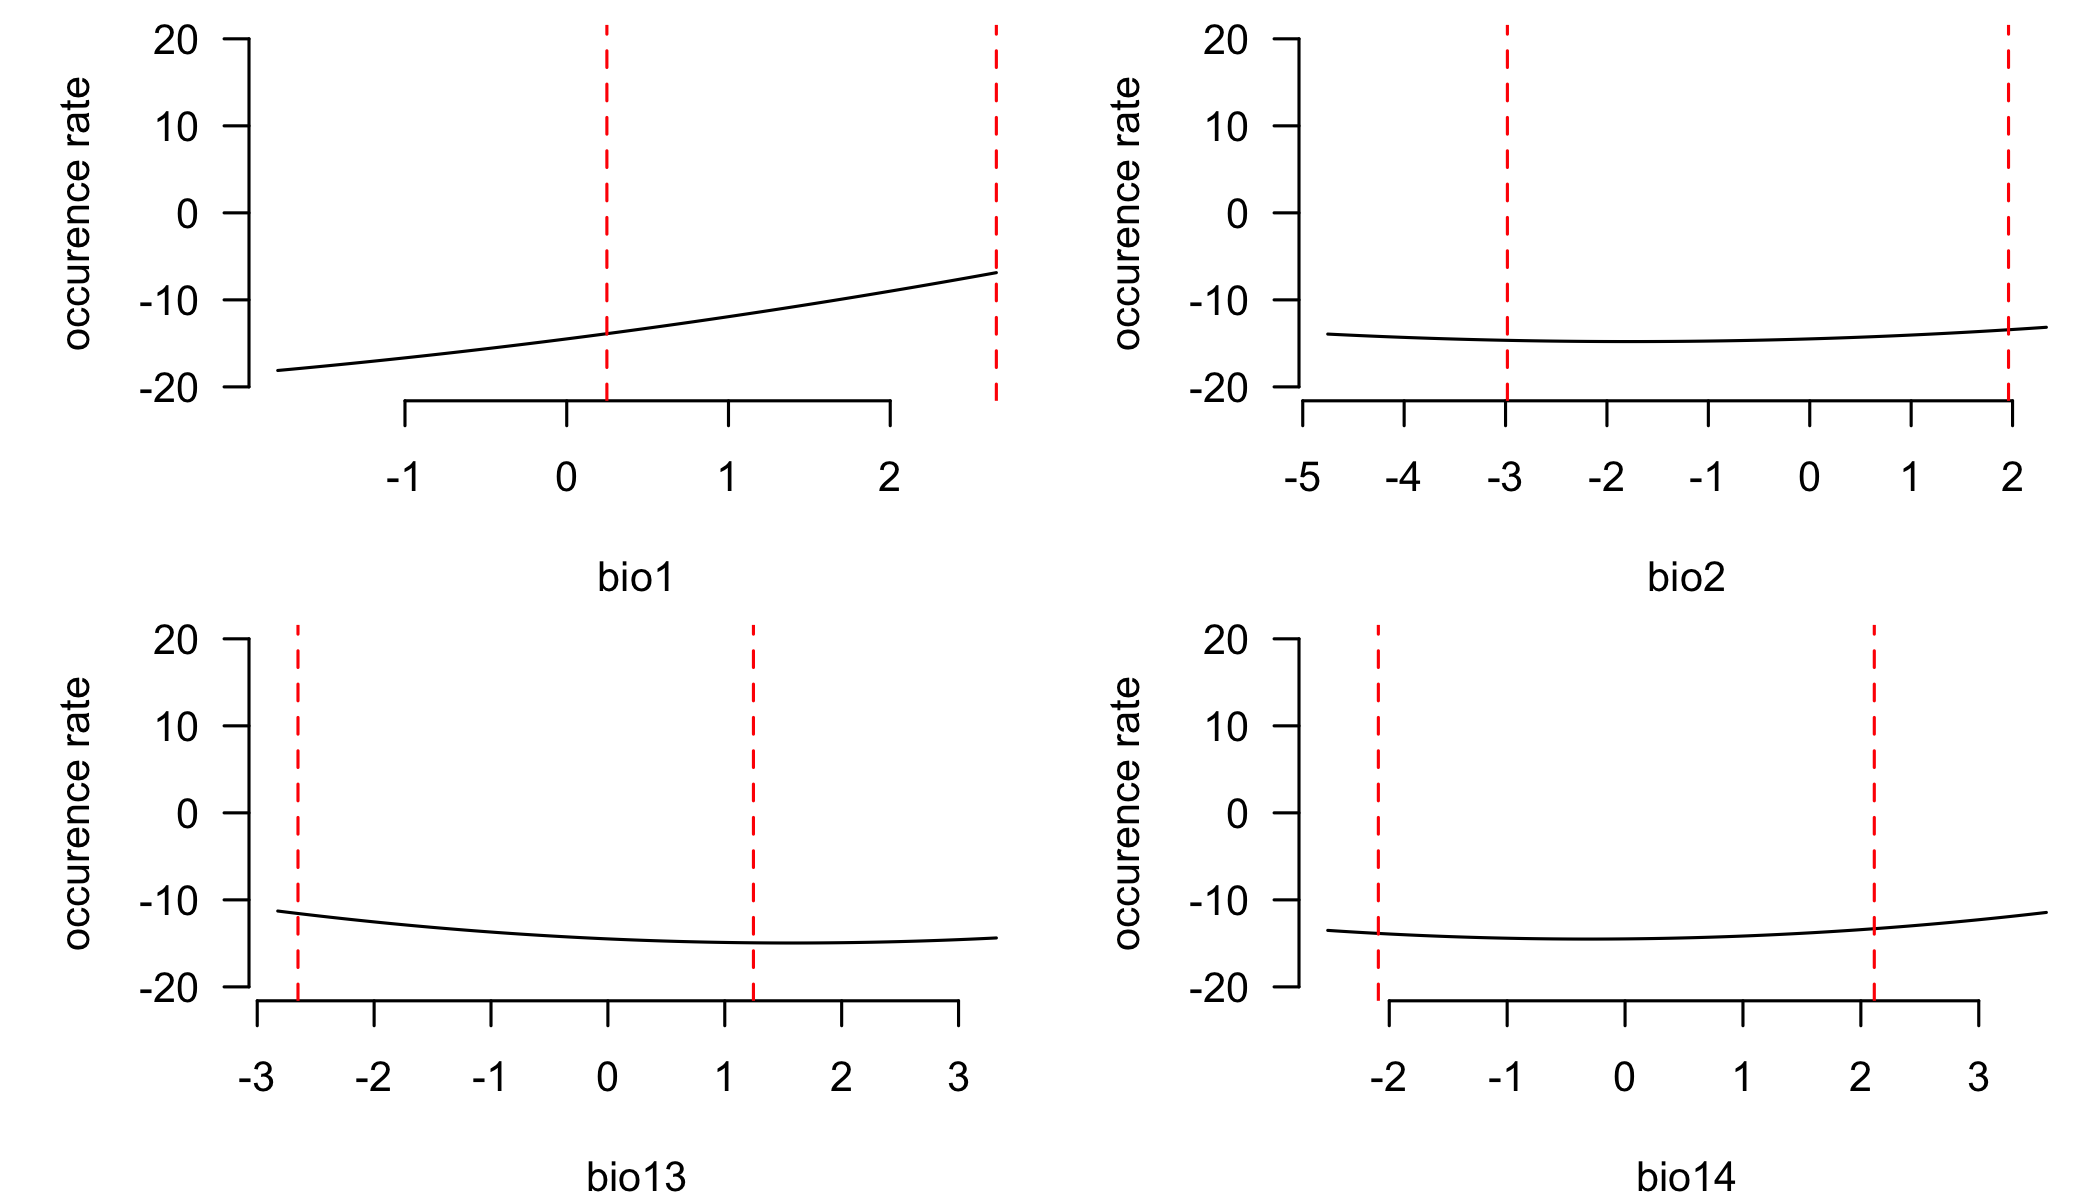
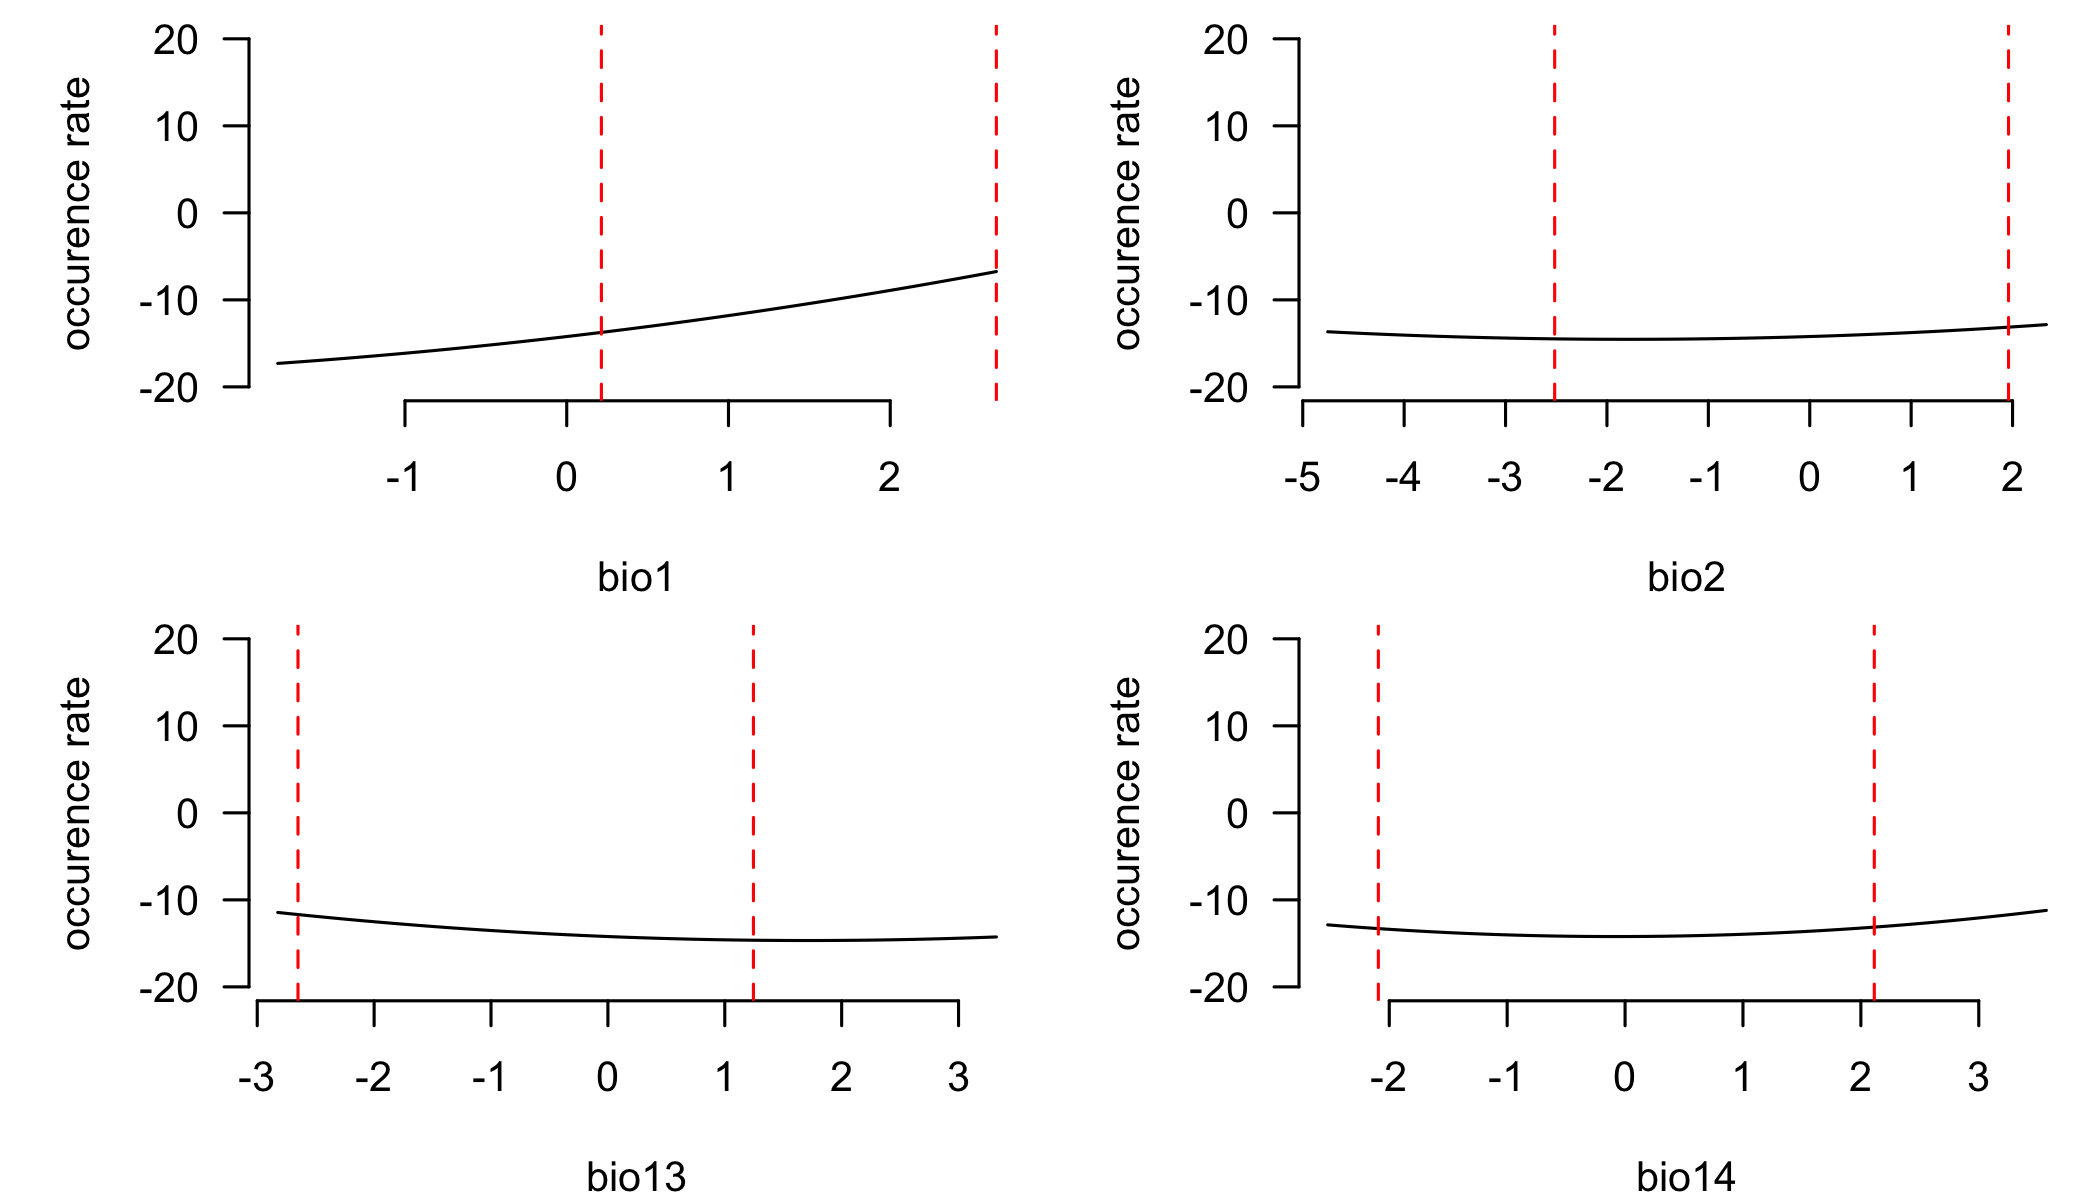
working site

diff --git a/111_SDM_Transfer.html b/111_SDM_Transfer.html
@@ -695,27 +695,27 @@ summary(mod.worst) # show coefficients</code></pre>
 ## 
 ## Deviance Residuals: 
 ##     Min       1Q   Median       3Q      Max  
-## -5.9215  -0.2497  -0.0725  -0.0195   5.0739  
+## -5.8954  -0.2600  -0.0861  -0.0287   5.0121  
 ## 
 ## Coefficients:
 ##              Estimate Std. Error z value Pr(&gt;|z|)    
-## (Intercept) -14.48566    0.25746 -56.264  &lt; 2e-16 ***
-## bio1          2.36738    0.28109   8.422  &lt; 2e-16 ***
-## bio2          0.34557    0.05220   6.620  3.6e-11 ***
-## bio13        -0.59795    0.06548  -9.132  &lt; 2e-16 ***
-## bio14         0.12487    0.10737   1.163 0.244821    
-## I(bio1^2)     0.18781    0.08635   2.175 0.029635 *  
-## I(bio2^2)     0.09721    0.02730   3.560 0.000370 ***
-## I(bio13^2)    0.18978    0.05284   3.592 0.000328 ***
-## I(bio14^2)    0.20319    0.05810   3.497 0.000471 ***
+## (Intercept) -14.21454    0.22871 -62.150  &lt; 2e-16 ***
+## bio1          2.16403    0.24805   8.724  &lt; 2e-16 ***
+## bio2          0.35567    0.05117   6.951 3.63e-12 ***
+## bio13        -0.53618    0.06442  -8.324  &lt; 2e-16 ***
+## bio14         0.03566    0.09912   0.360 0.718982    
+## I(bio1^2)     0.24379    0.07819   3.118 0.001821 ** 
+## I(bio2^2)     0.09915    0.02684   3.694 0.000221 ***
+## I(bio13^2)    0.15718    0.05209   3.018 0.002549 ** 
+## I(bio14^2)    0.22543    0.05427   4.154 3.26e-05 ***
 ## ---
 ## Signif. codes:  0 &#39;***&#39; 0.001 &#39;**&#39; 0.01 &#39;*&#39; 0.05 &#39;.&#39; 0.1 &#39; &#39; 1
 ## 
 ## (Dispersion parameter for poisson family taken to be 1)
 ## 
-##     Null deviance: 17982  on 3844  degrees of freedom
-## Residual deviance: 14262  on 3836  degrees of freedom
-## AIC: 16000
+##     Null deviance: 18398  on 3866  degrees of freedom
+## Residual deviance: 14650  on 3858  degrees of freedom
+## AIC: 16432
 ## 
 ## Number of Fisher Scoring iterations: 16</code></pre>
 </div>
@@ -739,16 +739,16 @@ response.curves=lapply(1:nlayers(clim.us),function(x){ # loop over each variable
 <pre><code>## List of 4
 ##  $ :&#39;data.frame&#39;:    100 obs. of  2 variables:
 ##   ..$ xs: num [1:100] -1.79 -1.74 -1.7 -1.65 -1.61 ...
-##   ..$ ys: num [1:100] -18.1 -18 -18 -17.9 -17.8 ...
+##   ..$ ys: num [1:100] -17.3 -17.2 -17.2 -17.1 -17.1 ...
 ##  $ :&#39;data.frame&#39;:    100 obs. of  2 variables:
 ##   ..$ xs: num [1:100] -4.75 -4.68 -4.61 -4.54 -4.47 ...
-##   ..$ ys: num [1:100] -13.9 -14 -14 -14.1 -14.1 ...
+##   ..$ ys: num [1:100] -13.7 -13.7 -13.7 -13.8 -13.8 ...
 ##  $ :&#39;data.frame&#39;:    100 obs. of  2 variables:
 ##   ..$ xs: num [1:100] -2.82 -2.76 -2.7 -2.64 -2.58 ...
-##   ..$ ys: num [1:100] -11.3 -11.4 -11.5 -11.6 -11.7 ...
+##   ..$ ys: num [1:100] -11.4 -11.5 -11.6 -11.7 -11.8 ...
 ##  $ :&#39;data.frame&#39;:    100 obs. of  2 variables:
 ##   ..$ xs: num [1:100] -2.52 -2.46 -2.4 -2.34 -2.28 ...
-##   ..$ ys: num [1:100] -13.5 -13.6 -13.6 -13.7 -13.7 ...</code></pre>
+##   ..$ ys: num [1:100] -12.9 -12.9 -13 -13.1 -13.1 ...</code></pre>
 <pre class="r"><code>  # plot the curves
 par(mfrow=c(2,2),mar=c(4,5,.5,.5)) # # rows and cols for plotting
 for(i in 1:nlayers(clim.us)){ # loop over layers

diff --git a/111_SDM_Transfer.md b/111_SDM_Transfer.md
@@ -227,27 +227,27 @@ summary(mod.worst) # show coefficients
 ## 
 ## Deviance Residuals: 
 ##     Min       1Q   Median       3Q      Max  
-## -5.9215  -0.2497  -0.0725  -0.0195   5.0739  
+## -5.8954  -0.2600  -0.0861  -0.0287   5.0121  
 ## 
 ## Coefficients:
 ##              Estimate Std. Error z value Pr(>|z|)    
-## (Intercept) -14.48566    0.25746 -56.264  < 2e-16 ***
-## bio1          2.36738    0.28109   8.422  < 2e-16 ***
-## bio2          0.34557    0.05220   6.620  3.6e-11 ***
-## bio13        -0.59795    0.06548  -9.132  < 2e-16 ***
-## bio14         0.12487    0.10737   1.163 0.244821    
-## I(bio1^2)     0.18781    0.08635   2.175 0.029635 *  
-## I(bio2^2)     0.09721    0.02730   3.560 0.000370 ***
-## I(bio13^2)    0.18978    0.05284   3.592 0.000328 ***
-## I(bio14^2)    0.20319    0.05810   3.497 0.000471 ***
+## (Intercept) -14.21454    0.22871 -62.150  < 2e-16 ***
+## bio1          2.16403    0.24805   8.724  < 2e-16 ***
+## bio2          0.35567    0.05117   6.951 3.63e-12 ***
+## bio13        -0.53618    0.06442  -8.324  < 2e-16 ***
+## bio14         0.03566    0.09912   0.360 0.718982    
+## I(bio1^2)     0.24379    0.07819   3.118 0.001821 ** 
+## I(bio2^2)     0.09915    0.02684   3.694 0.000221 ***
+## I(bio13^2)    0.15718    0.05209   3.018 0.002549 ** 
+## I(bio14^2)    0.22543    0.05427   4.154 3.26e-05 ***
 ## ---
 ## Signif. codes:  0 '***' 0.001 '**' 0.01 '*' 0.05 '.' 0.1 ' ' 1
 ## 
 ## (Dispersion parameter for poisson family taken to be 1)
 ## 
-##     Null deviance: 17982  on 3844  degrees of freedom
-## Residual deviance: 14262  on 3836  degrees of freedom
-## AIC: 16000
+##     Null deviance: 18398  on 3866  degrees of freedom
+## Residual deviance: 14650  on 3858  degrees of freedom
+## AIC: 16432
 ## 
 ## Number of Fisher Scoring iterations: 16
 ```
@@ -284,16 +284,16 @@ str(response.curves) #structure of the object used for plotting
 ## List of 4
 ##  $ :'data.frame':	100 obs. of  2 variables:
 ##   ..$ xs: num [1:100] -1.79 -1.74 -1.7 -1.65 -1.61 ...
-##   ..$ ys: num [1:100] -18.1 -18 -18 -17.9 -17.8 ...
+##   ..$ ys: num [1:100] -17.3 -17.2 -17.2 -17.1 -17.1 ...
 ##  $ :'data.frame':	100 obs. of  2 variables:
 ##   ..$ xs: num [1:100] -4.75 -4.68 -4.61 -4.54 -4.47 ...
-##   ..$ ys: num [1:100] -13.9 -14 -14 -14.1 -14.1 ...
+##   ..$ ys: num [1:100] -13.7 -13.7 -13.7 -13.8 -13.8 ...
 ##  $ :'data.frame':	100 obs. of  2 variables:
 ##   ..$ xs: num [1:100] -2.82 -2.76 -2.7 -2.64 -2.58 ...
-##   ..$ ys: num [1:100] -11.3 -11.4 -11.5 -11.6 -11.7 ...
+##   ..$ ys: num [1:100] -11.4 -11.5 -11.6 -11.7 -11.8 ...
 ##  $ :'data.frame':	100 obs. of  2 variables:
 ##   ..$ xs: num [1:100] -2.52 -2.46 -2.4 -2.34 -2.28 ...
-##   ..$ ys: num [1:100] -13.5 -13.6 -13.6 -13.7 -13.7 ...
+##   ..$ ys: num [1:100] -12.9 -12.9 -13 -13.1 -13.1 ...
 ```
 
 
